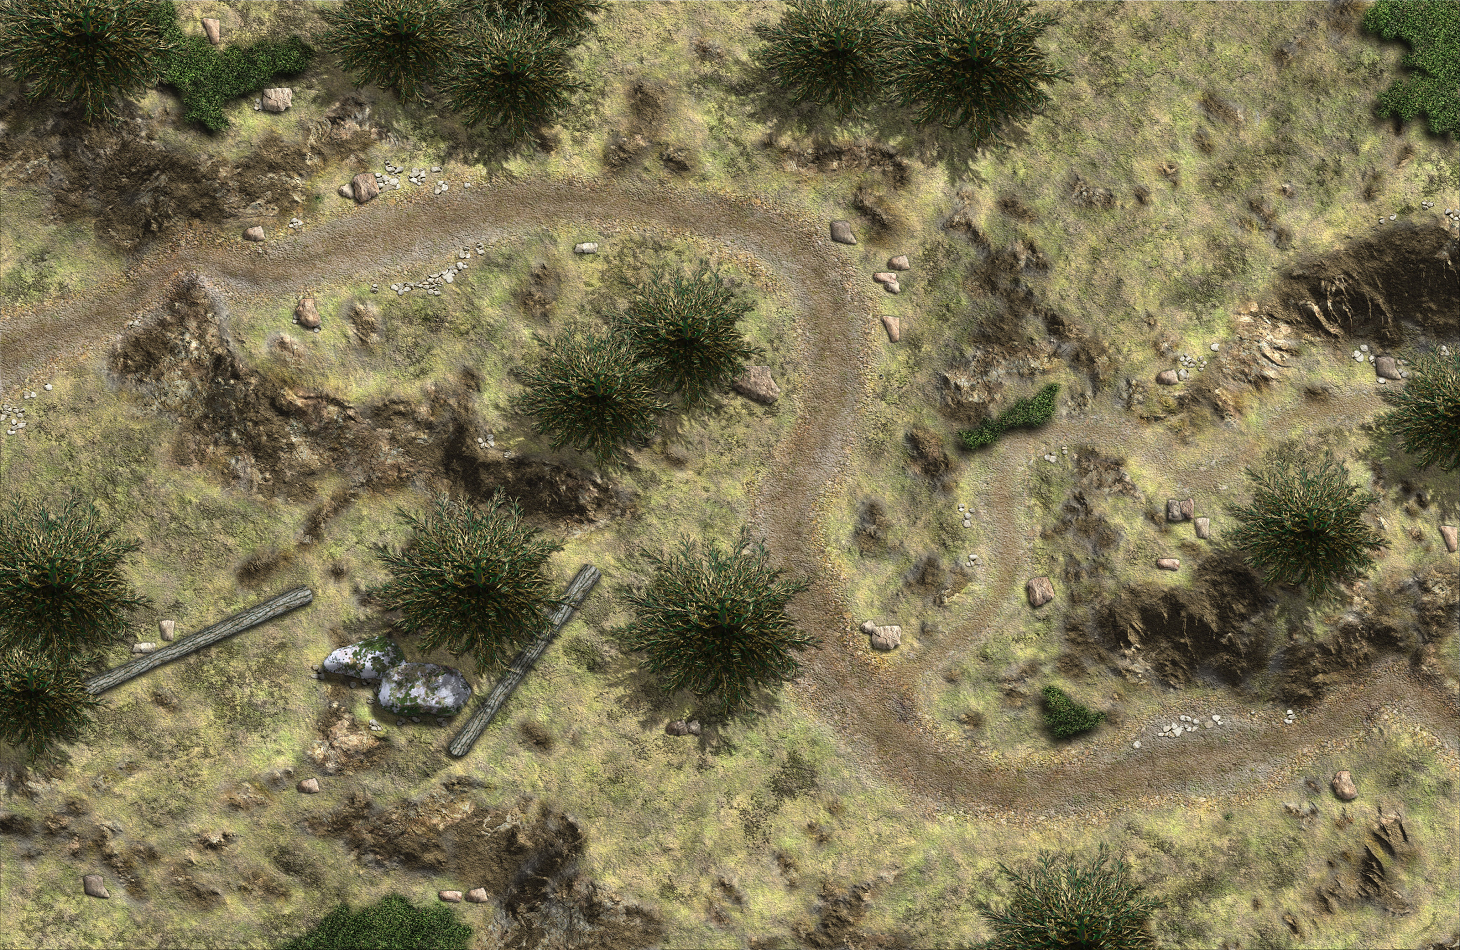
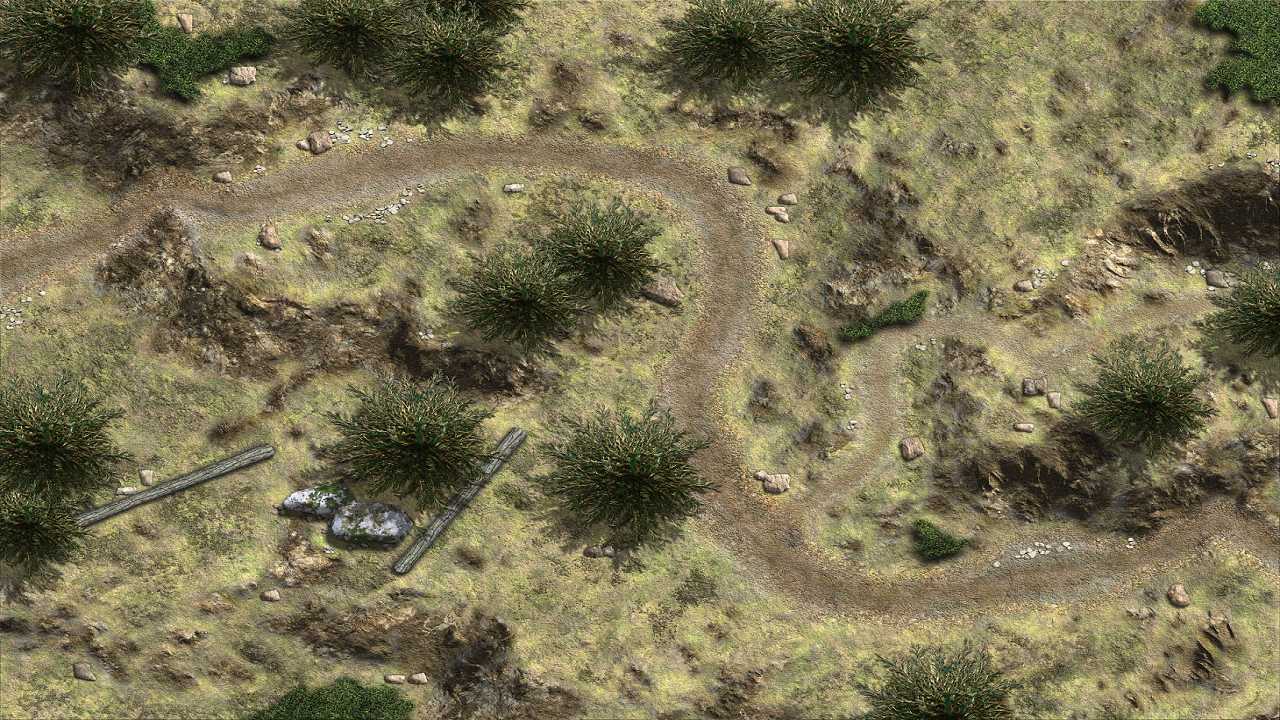
asd

diff --git a/SurvivalGame/src/survivalgame/Map.java b/SurvivalGame/src/survivalgame/Map.java
@@ -23,7 +23,7 @@ public class Map extends JFrame {
     private ZombieGenerator zf;
     private Player p ;
     private Weapons w = new Weapons ();
-    ImageIcon MapIcn= new ImageIcon(getClass().getResource("misc/Map1.jpg"));
+    ImageIcon MapIcn= new ImageIcon(getClass().getResource("misc/Map.jpg"));
     ImageIcon Zombierawr= new ImageIcon(getClass().getResource("misc/Sprites/ZombieWalk_normal_scaled_fast.gif"));
     ImageIcon Playericon  = new ImageIcon(getClass().getResource("misc/Sprites/Soldier.png"));
     private Random r;
